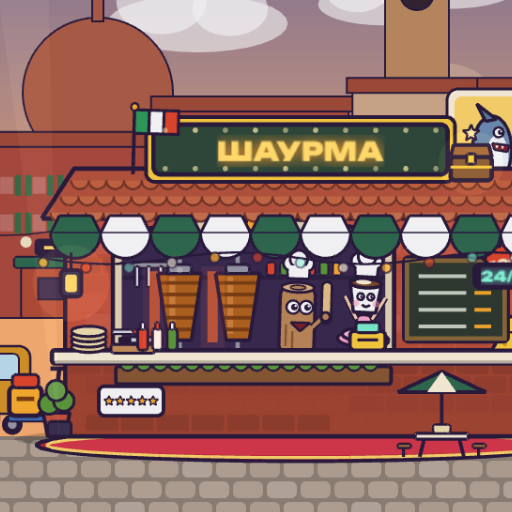
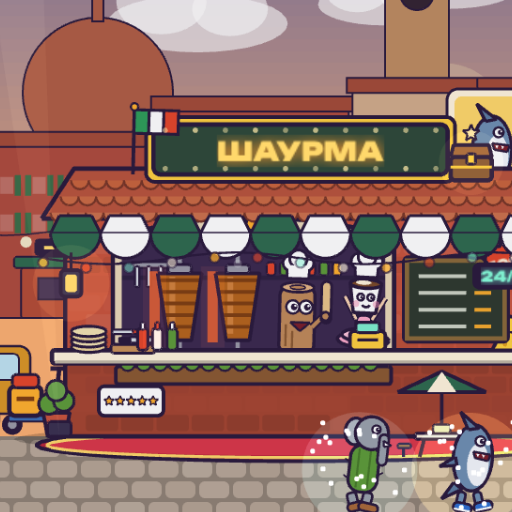
Docs and promo images for version 2.0
Claude-Session: https://claude.ai/code/session_01Qaf8nFrGjceNFtBnCV7UjF

diff --git a/CLAUDE.md b/CLAUDE.md
@@ -13,18 +13,20 @@ Idle-кликер про ларёк с шаурмой. Браузерная иг
   - `economy.ts` — `GameState`, тап, покупка, тик, офлайн-доход, переезд, буст, миграция старых сохранений (`normalize`).
   - `upgrades.ts` — таблица из 18 улучшений (тап, помощники, множители). `locations.ts` — 5 локаций с порогами и множителями.
   - `achievements.ts` — 15 достижений, каждое навсегда даёт +3 % к доходу.
+  - `pets.ts` — брейнроты-питомцы из ящиков: редкости, шансы, мутации, бонус к доходу (`petMult`), открытие ящика (`openBox`).
+  - `daily.ts` — подарок дня на 7 дней. `quests.ts` — три задания с наградами.
   - `brainrots.ts` — 13 итальянских брейнротов: кто на какой точке приходит в очередь, кто работник, кто событие. Коллекция (`met`).
   - `look.ts` — как выглядит ларёк: стадия каждого улучшения (уровни 1, 10, 25, 50, 100) и украшения по сумме уровней.
-  - В `economy.ts` также комбо (серия тапов до ×2), Бомбардиро (`goldenReward`), час пик, покупка пачкой ×1/×10/Макс (`buyN`, `bulkAmount`).
+  - В `economy.ts` также вехи ×2 (`MILESTONES`), криты, эффекты Бомбардиро (`applyGolden`), цена ящика, комбо (серия тапов до ×2), Бомбардиро (`goldenReward`), час пик, покупка пачкой ×1/×10/Макс (`buyN`, `bulkAmount`).
   - `format.ts` — короткие числа (1,2 тыс., 3,4 млн). `sim.ts` — симуляция игрока для тестов баланса.
 - `src/scenes/` — только отрисовка и ввод, всё из фигур с тёмной обводкой.
   - `draw.ts` — палитра и `Pen` (заливка + обводка одной командой).
   - `brainrots.ts` — рисунки 13 брейнротов, ноги отдельными кусками для ходьбы.
   - `backdrops.ts` — фоны 5 локаций (метро, пляж, джунгли, пустыня, площадь) и то, что ездит или летает по фону.
   - `stall.ts` — ларёк: свой стиль на каждой локации, каждое из 18 улучшений видно на точке и растёт со стадией.
-  - `StallScene.ts` — небо со сменой дня и ночи (сутки 8 минут), очередь брейнротов с репликами, Бомбардиро с мешком денег, переезд с затемнением, портреты для коллекции.
+  - `StallScene.ts` — небо со сменой дня и ночи (сутки 8 минут), очередь брейнротов с репликами, Бомбардиро с мешком денег, переезд с затемнением, портреты для коллекции, танцующие питомцы перед ларьком, криты.
 - `src/icons.ts` — значки улучшений и наград в виде маленьких SVG.
-- `src/ui.ts` — HTML-интерфейс поверх сцены: деньги, вкладки «Улучшения / Переезд / Магазин», окно офлайн-дохода. Разметка в `index.html`, стили в `src/style.css`.
+- `src/ui.ts` — HTML-интерфейс поверх сцены: деньги и бафы, боковые кнопки, вкладки «Улучшения / Брейнроты / Задания / Переезд / Магазин», окна офлайн-дохода, подарка дня и открытия ящика. Разметка в `index.html`, стили в `src/style.css`.
 - `src/game.ts` — контроллер: держит состояние, цикл 10 раз в секунду, сохранение каждые 10 с, события (час пик, Бомбардиро, достижения, знакомство с брейнротами), реклама, покупки, пауза.
 - `src/i18n.ts` — все тексты на русском и английском. Новые строки добавлять только сюда.
 - `src/audio.ts` — звуки и музыка (тарантелла по кругу), синтезированные через Web Audio, без файлов.

diff --git a/docs/yandex-publish.md b/docs/yandex-publish.md
@@ -33,10 +33,10 @@ npm run zip
 
 **Название:** Шаурма-лавка (англ. Shawarma Stand Idle).
 
-**Короткое описание:** Корми итальянских брейнротов шаурмой: от ларька у метро до траттории на площади. Тапай, нанимай Тунг Тунг Сахура и лови Бомбардиро.
+**Короткое описание:** Корми итальянских брейнротов шаурмой, открывай ящики и собери всех 13, от обычного Гусини до брейнрот-бога Бомбардиро. Тапай, лови криты и веди ларёк с метро до Италии.
 
 **Описание:**
-> В очередь к твоему ларьку выстроились итальянские брейнроты: Тралалеро Тралала в кроссовках, Шимпанзини Бананини, Капучино Ассасино и ещё десяток знакомых лиц. Тапай по ларьку, чтобы их кормить, нанимай Тунг Тунг Сахура к грилю и Балерину Капучину на кассу. Каждое улучшение видно на точке: новые вертела, соусы, столики, неоновая вывеска, сундук с секретным рецептом. Переезжай с метро на пляж, в джунгли, в пустыню и на итальянскую площадь, собирай коллекцию брейнротов и лови Бомбардиро Крокодило с мешком денег.
+> В очередь к твоему ларьку выстроились итальянские брейнроты: Тралалеро Тралала в кроссовках, Шимпанзини Бананини, Капучино Ассасино и ещё десяток знакомых лиц. Тапай по ларьку, чтобы их кормить, нанимай Тунг Тунг Сахура к грилю и Балерину Капучину на кассу. Каждое улучшение видно на точке: новые вертела, соусы, столики, неоновая вывеска, сундук с секретным рецептом. Переезжай с метро на пляж, в джунгли, в пустыню и на итальянскую площадь, открывай ящики с брейнротами шести редкостей (с золотыми и алмазными мутациями: они танцуют у ларька и навсегда умножают доход), забирай подарок каждый день, выполняй задания и лови Бомбардиро Крокодило: он сбрасывает мешок денег, устраивает лихорадку ×7 или бешеные тапы ×10.
 
 **Жанр:** казуальные / кликеры (idle). **Возраст:** 0+. **Языки:** русский, английский. **Устройства:** телефон, планшет, компьютер. **Ориентация:** любая.
 
@@ -53,7 +53,7 @@ npm run zip
 
 ## 6. Реклама
 Включите рекламу в настройках игры. Игра сама вызывает:
-- рекламу за награду: буст ×2 на 10 минут и удвоение офлайн-дохода (только по кнопке игрока);
+- рекламу за награду: буст ×2 на 10 минут, удвоение офлайн-дохода и бесплатный золотой ящик раз в 4 минуты (только по кнопке игрока);
 - полноэкранную рекламу: только после переезда и никогда, если куплено «Без рекламы».
 
 **Про имена персонажей.** Брейнроты — мемы из интернета, авторов у них много, и права на имена кто-нибудь может заявить. Перед публикацией стоит быстро поискать, не зарегистрированы ли имена как товарные знаки. Если нужно, имена меняются в одном месте — `src/i18n.ts` (ключи `br_*` и `brs_*`), рисунки свои и остаются.

diff --git a/docs/design.md b/docs/design.md
@@ -14,6 +14,13 @@
 3. **Переезд** — престиж: ларёк у метро → киоск на пляже → шаурмичная в джунглях → кафе-оазис в пустыне → траттория на площади. Каждый переезд даёт постоянный множитель и новых гостей-брейнротов.
 4. **Магазин** — отключение рекламы, «вечный ×2», пакеты денег.
 
+## Версия 2.0 (идеи из успешных игр)
+- **Ящики с брейнротами** (из Steal a Brainrot): 13 питомцев шести редкостей — обычный, редкий, эпический, легендарный, мифический, брейнрот-бог. Каждый навсегда даёт бонус ко всему доходу и не сгорает при переезде, повтор повышает уровень, мутации золото ×2 и алмаз ×5. Обычный ящик за деньги, золотой — за рекламу раз в 4 минуты. Открытие с тряской, лучами цвета редкости и фанфарой. Четыре лучших питомца танцуют перед ларьком.
+- **Вехи** (из AdVenture Capitalist): на 10, 25, 50, 100… уровне улучшение приносит вдвое больше, полоска до следующей вехи видна на карточке.
+- **Подарок дня** на 7 дней (деньги, ящики, на 7-й день золотой ящик) и **три задания** с наградами.
+- **Бомбардиро** даёт одно из трёх: мешок денег, лихорадку (доход ×7 на 30 с) или бешеные тапы (×10 на 15 с). **Крит**: 6 % тапов приносят ×10.
+- **Интерфейс-наклейки**: тёмно-сливовая панель, кремовые карточки с толстой обводкой, нижние вкладки с иконками и значками, боковые кнопки над улицей.
+
 ## Экономика
 - Цена улучшения растёт в 1,07–1,15 раза за уровень (сейчас 1,15 для рецепта, 1,12 для помощника).
 - Офлайн-доход за время отсутствия, не больше 2 часов (потом можно поднимать улучшением).

diff --git a/docs/roadmap.md b/docs/roadmap.md
@@ -38,8 +38,10 @@
 - [x] Каждое из 18 улучшений видно на ларьке и растёт с уровнем, украшения за сумму уровней
 - [x] Покупка ×1/×10/Макс, музыка-тарантелла, карточка переезда, Бомбардиро с мешком денег
 
+- [x] Версия 2.0: ящики с брейнротами шести редкостей и мутациями, вехи ×2, подарок дня, задания, криты, эффекты Бомбардиро, новый интерфейс
+
 ## Идеи на потом
-- Ежедневная награда и задания
+- Обмен лишних брейнротов на ящики покрупнее
 - Таблица лидеров Яндекса
 - Новые локации после площади и новые брейнроты
 - Версия для VK Games
